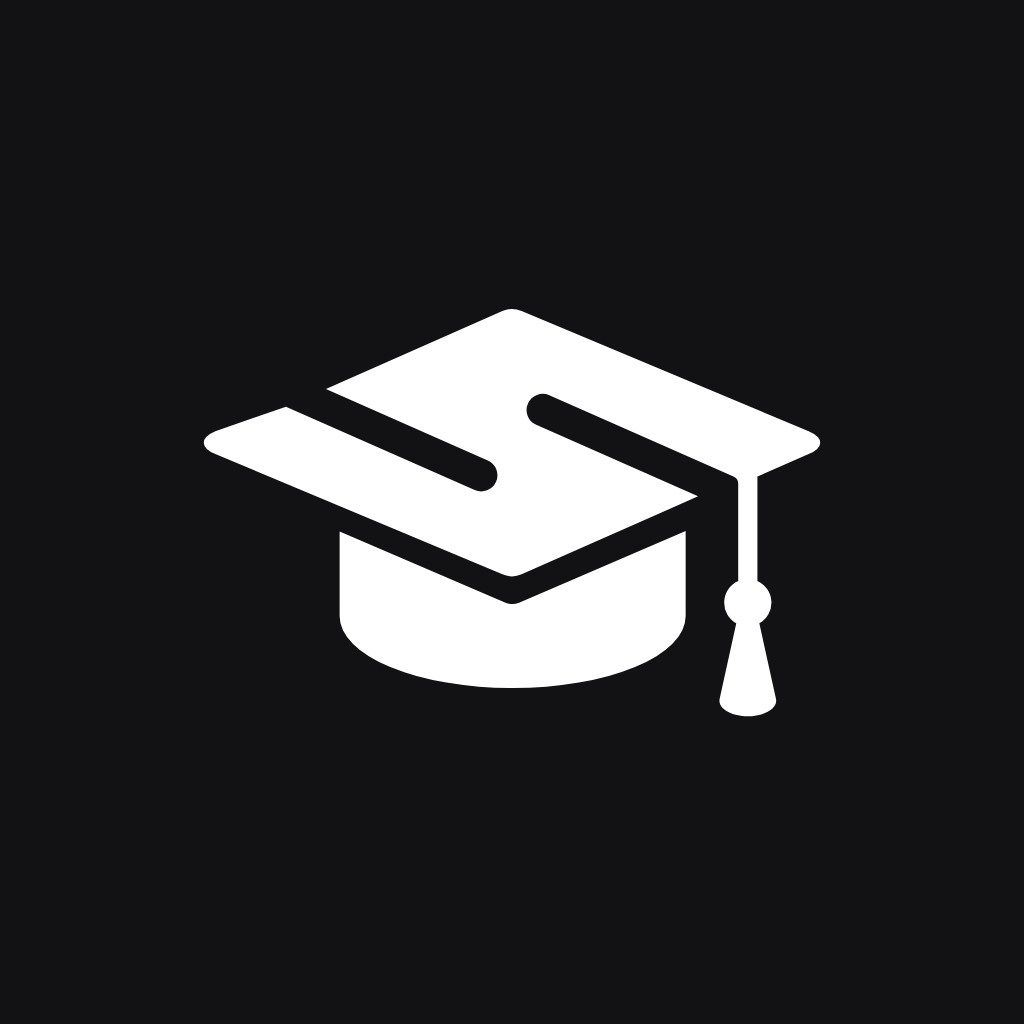
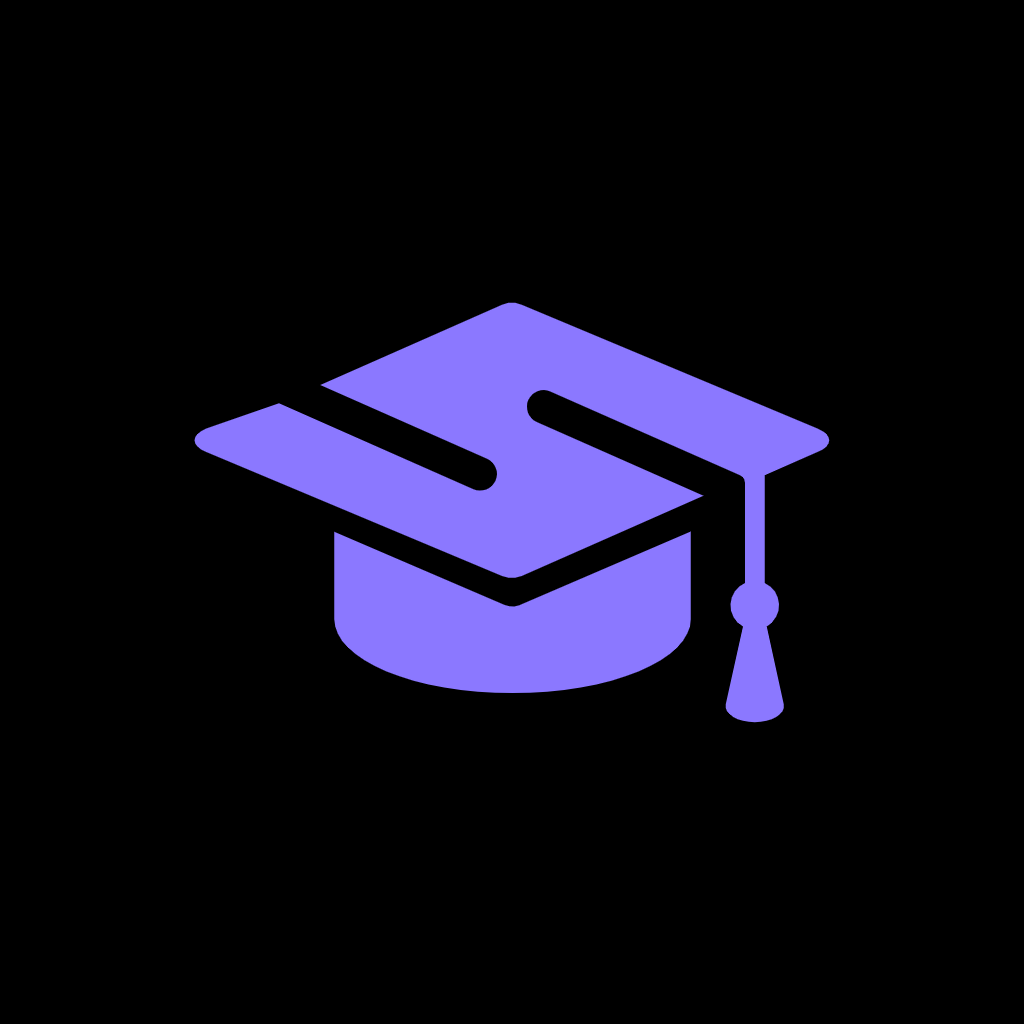
feat: change initial mobile application screens, navigation components, assets, and app configuration

Changed region(s): [[0.1875, 0.2812, 0.8125, 0.7188]]

diff --git a/mobile/src/components/MortarboardLogo.tsx b/mobile/src/components/MortarboardLogo.tsx
@@ -1,0 +1,35 @@
+import React from 'react';
+import Svg, { G, Path, SvgProps } from 'react-native-svg';
+import { Theme } from '../Theme';
+
+export interface MortarboardLogoProps extends SvgProps {
+  size?: number;
+  color?: string;
+}
+
+export const MortarboardLogo: React.FC<MortarboardLogoProps> = ({
+  size = 64,
+  color = Theme.colors.primary,
+  style,
+  ...props
+}) => {
+  return (
+    <Svg
+      width={size}
+      height={size}
+      viewBox="0 0 512 512"
+      fill="none"
+      style={style}
+      {...props}
+    >
+      <G transform="translate(86, 138) scale(0.66)" fill={color}>
+        {/* Mortarboard Top & Tassel */}
+        <Path d="M 250 21.8 Q 257.5 18.5 265 21.8 L 489 115.6 Q 498 119.5 498 124.5 Q 498 129.5 489 133.4 L 449 151 L 449 232.5 A 18.5 18.5 0 0 1 450.5 265.5 L 463.5 324.5 C 465 332 454 338 441.5 338 C 429 338 418 332 419.5 324.5 L 432.5 265.5 A 18.5 18.5 0 0 1 434 232.5 L 434.0 156.6 Q 434.0 152.6 430.3 151.0 L 286.6 87.5 A 12.61 12.61 0 0 0 276.4 110.6 L 402.7 166.4 L 265 227.2 Q 257.5 230.5 250 227.2 L 26 133.4 Q 17 129.5 17 124.5 Q 17 119.5 26 115.6 L 81.1 96.4 L 228.4 161.5 A 12.61 12.61 0 0 0 238.6 138.4 L 112.3 82.6 Z" />
+        {/* Skullcap Base */}
+        <Path d="M 123 193.8 L 123 260 A 135 56 0 0 0 393 260 L 393 193.5 L 263 249.5 Q 257.5 251.5 252 249.2 Z" />
+      </G>
+    </Svg>
+  );
+};
+
+export default MortarboardLogo;

diff --git a/mobile/src/screens/LockScreen.tsx b/mobile/src/screens/LockScreen.tsx
@@ -1,9 +1,10 @@
 import React, { useEffect, useState } from 'react';
-import { StyleSheet, Text, View, TouchableOpacity, Alert, Image } from 'react-native';
+import { StyleSheet, Text, View, TouchableOpacity, Alert } from 'react-native';
 import * as LocalAuthentication from 'expo-local-authentication';
 import { Ionicons } from '@expo/vector-icons';
 import { useSafeAreaInsets } from 'react-native-safe-area-context';
 import { Theme } from '../Theme';
+import { MortarboardLogo } from '../components/MortarboardLogo';
 
 interface LockScreenProps {
   onUnlock: () => void;
@@ -62,11 +63,7 @@ export default function LockScreen({ onUnlock }: LockScreenProps) {
     >
       <View style={styles.logoContainer}>
         <View style={styles.iconCircle}>
-          <Image 
-            source={require('../../assets/icon_purple.png')} 
-            style={styles.logoImage} 
-            resizeMode="contain" 
-          />
+          <MortarboardLogo size={68} color={Theme.colors.primary} />
         </View>
         <Text style={styles.title}>Shiksha Portal</Text>
         <Text style={styles.subtitle}>Secure Mobile Access</Text>
@@ -110,11 +107,6 @@ const styles = StyleSheet.create({
     marginBottom: 20,
     borderWidth: 1,
     borderColor: Theme.colors.border,
-  },
-  logoImage: {
-    width: 70,
-    height: 70,
-    borderRadius: 14,
   },
   title: {
     fontSize: 28,

diff --git a/mobile/src/screens/DashboardScreen.tsx b/mobile/src/screens/DashboardScreen.tsx
@@ -7,6 +7,7 @@ import { CalendarDots, Table, FileText, ClipboardText } from 'phosphor-react-nat
 import { useSafeAreaInsets } from 'react-native-safe-area-context';
 import { Theme } from '../Theme';
 import { ProfileData } from '../services/CacheService';
+import { MortarboardLogo } from '../components/MortarboardLogo';
 
 const { height: SCREEN_HEIGHT } = Dimensions.get('window');
 
@@ -37,10 +38,7 @@ export default function DashboardScreen({
   if (!profileData) {
     return (
       <View style={styles.loadingContainer}>
-        <Image
-          source={require('../../assets/icon_purple.png')}
-          style={styles.loadingLogo}
-        />
+        <MortarboardLogo size={72} color={Theme.colors.primary} style={{ marginBottom: 16 }} />
         <Text style={styles.loadingText}>No profile cache found. Swipe down to sync.</Text>
       </View>
     );
